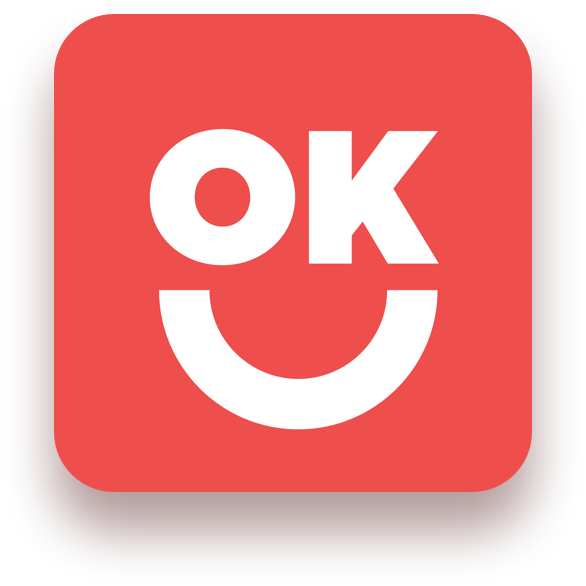
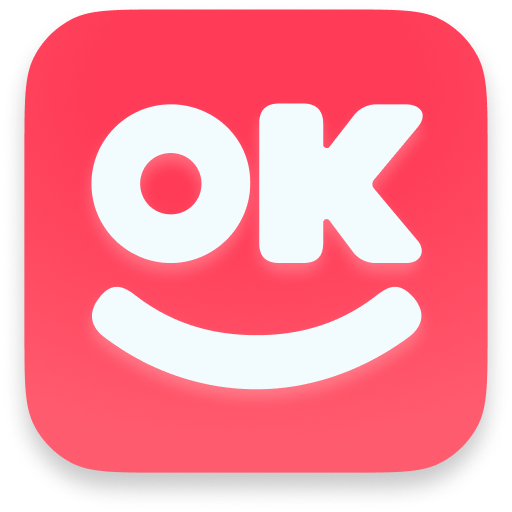
Updated site appearance

diff --git a/index.html b/index.html
@@ -17,16 +17,16 @@
 		<link rel="shortcut icon" href="/img/favicon.png">
 
 		<meta property="og:type" content="product">
-		<meta property="og:title" content="OK Video">
-		<meta property="og:description" content="Super fast video sequences: hold the screen to record and quickly make an OK Video montage. Then, send it off to your favorite app, directly to your camera roll, or post it to one of those story apps.">
+		<meta property="og:title" content="OK Video - Super Fast Video Sequences">
+		<meta property="og:description" content="Tap-to-record video camera limited only by your creativity. OK Video is unlimited, vine-style video recording without any editing. Easily create a vlog, a stop motion or just record whatever’s happening. After recording you can directly save it to your camera roll or send it to your favorite app.">
 		<meta property="og:url" content="https://okvideo.app/">
 		<meta property="og:image" content="https://okvideo.app/img/open-graph.png">
 
 		<meta name="twitter:card" content="app">
 		<meta name="twitter:site" content="@OKVideoApp">
-		<meta name="twitter:description" content="Super fast video sequences: hold the screen to record and quickly make an OK Video montage. Then, send it off to your favorite app, directly to your camera roll, or post it to one of those story apps.">
+		<meta name="twitter:description" content="Tap-to-record video camera limited only by your creativity. OK Video is unlimited, vine-style video recording without any editing. Easily create a vlog, a stop motion or just record whatever’s happening. After recording you can directly save it to your camera roll or send it to your favorite app.">
 		<meta name="twitter:app:country" content="US">
-		<meta name="twitter:app:name:iphone" content="OK Video">
+		<meta name="twitter:app:name:iphone" content="OK Video - Super Fast Video Sequences">
 		<meta name="twitter:app:id:iphone" content="1207023470">
 
 		<meta name="apple-itunes-app" content="app-id=1207023470">
@@ -34,7 +34,7 @@
 	<body>
 		<section class="intro">
 			<div>
-				<img src="img/appIcon.svg" class="appIcon" alt="App Icon">
+				<img src="img/appIcon.png" class="appIcon" alt="App Icon">
 				<img src="img/text-OKVideo.svg" class="textOkvideo" alt="OK Video">
 				<a href="https://itunes.apple.com/us/app/ok-video/id1207023470?ls=1&mt=8" class="appStoreLink">
 					<img src="img/appStoreBadge.svg" class="appStoreBadge" alt="Download on The App Store">
@@ -53,15 +53,17 @@
 		</section>
 
 		<spection class="description">
-			<p>Super fast video sequences. Hold the screen to record and quickly make an OK Video montage. Then, send it off to your favorite app, directly to your camera roll, or post it to one of those story apps.</p>
+			<p><strong>Tap-to-record video camera limited only by your creativity</strong></p>
+			<p>OK Video is unlimited, vine-style video recording without any editing. Easily create a vlog, a stop motion or just record whatever’s happening. After recording you can directly save it to your camera roll or send it to your favorite app. If you do need editing, like removing mistakes or reordering shots, the Timeline Editor is there to help!</p>
+			<p>Your OK Videos are exported with a small watermark at the bottom. You can remove this watermark with a single in-app purchase found in the settings menu.</p>
 		</spection>
 
 		<section class="credits">
-			<h2>Made by your friends:</h2>
+			<h2>Made by</h2>
 			<ul>
 				<li><a href="https://twitter.com/@pimcoumans">@pimcoumans</a></li>
 				<li><a href="https://twitter.com/@tomthinks">@tomthinks</a></li>
-				<li><a href="https://twitter.com/@thinkoco">@thinkoco</a></li>
+				<li><a href="https://twitter.com/@shilly">@shilly</a></li>
 			</ul>
 			<a href="https://twitter.com/okvideoapp" class="twitterLink">
 				<img src="img/twitter.svg" class ="twitterIcon" alt="Follow OK Video on twitter">

diff --git a/style/style.css b/style/style.css
@@ -24,8 +24,6 @@ body {
   width: 250px;
   height: 250px;
   margin: 0 auto 0 auto;
-  border-radius: 40px;
-  box-shadow: 0 20px 27px 0 rgba(63,3,3,0.39);
 }
 
 .appStoreLink {
@@ -50,7 +48,7 @@ body {
 }
 
 .description {
-  max-width: 600px;
+  max-width: 800px;
   padding: 0 20px;
   margin: 100px auto;
   display: block;
@@ -59,6 +57,14 @@ body {
   color: rgba(255,255,255,0.80);
   letter-spacing: 0;
   line-height: 40px;
+}
+
+.description p {
+  margin-bottom: 1em;
+}
+
+.description p strong {
+  font-weight: bold;
 }
 
 section {
